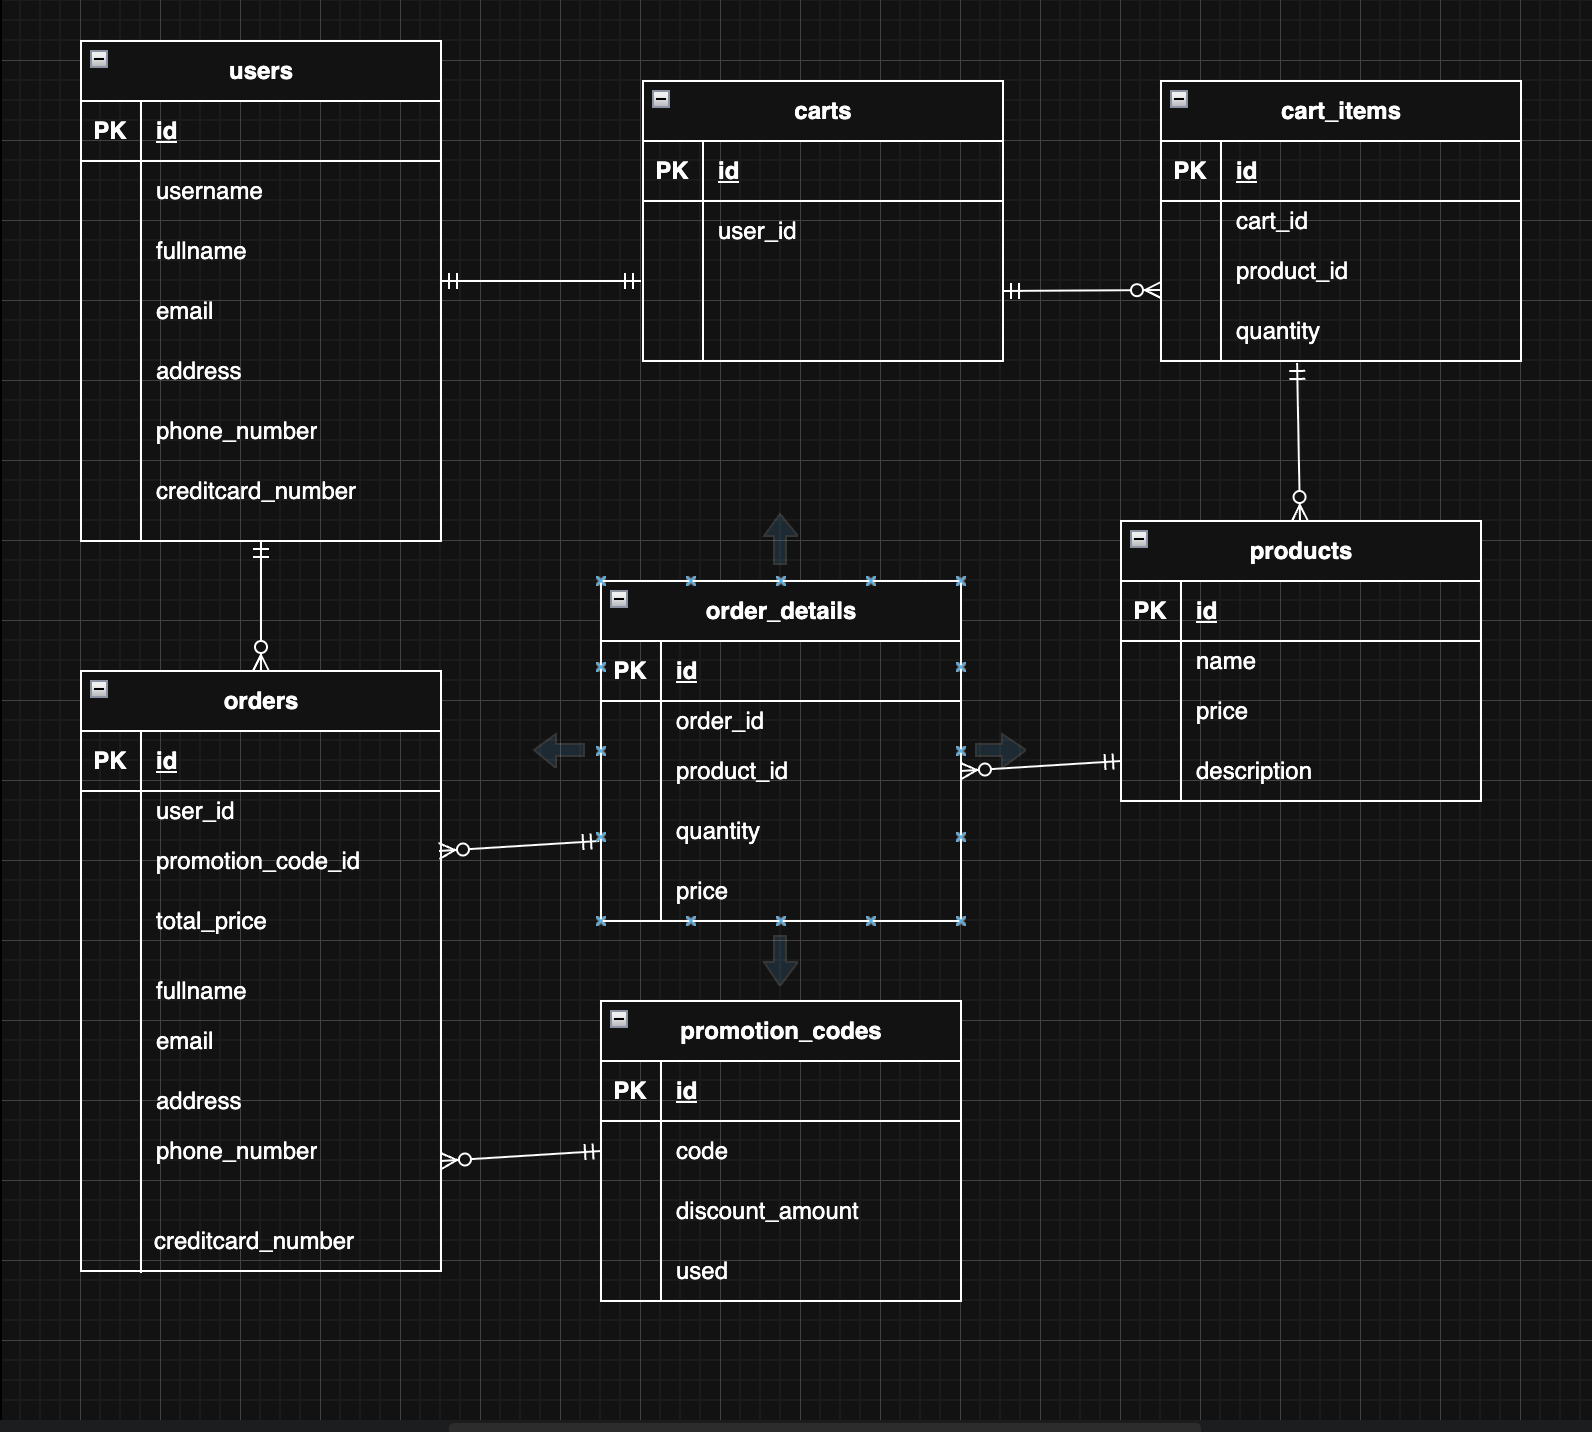
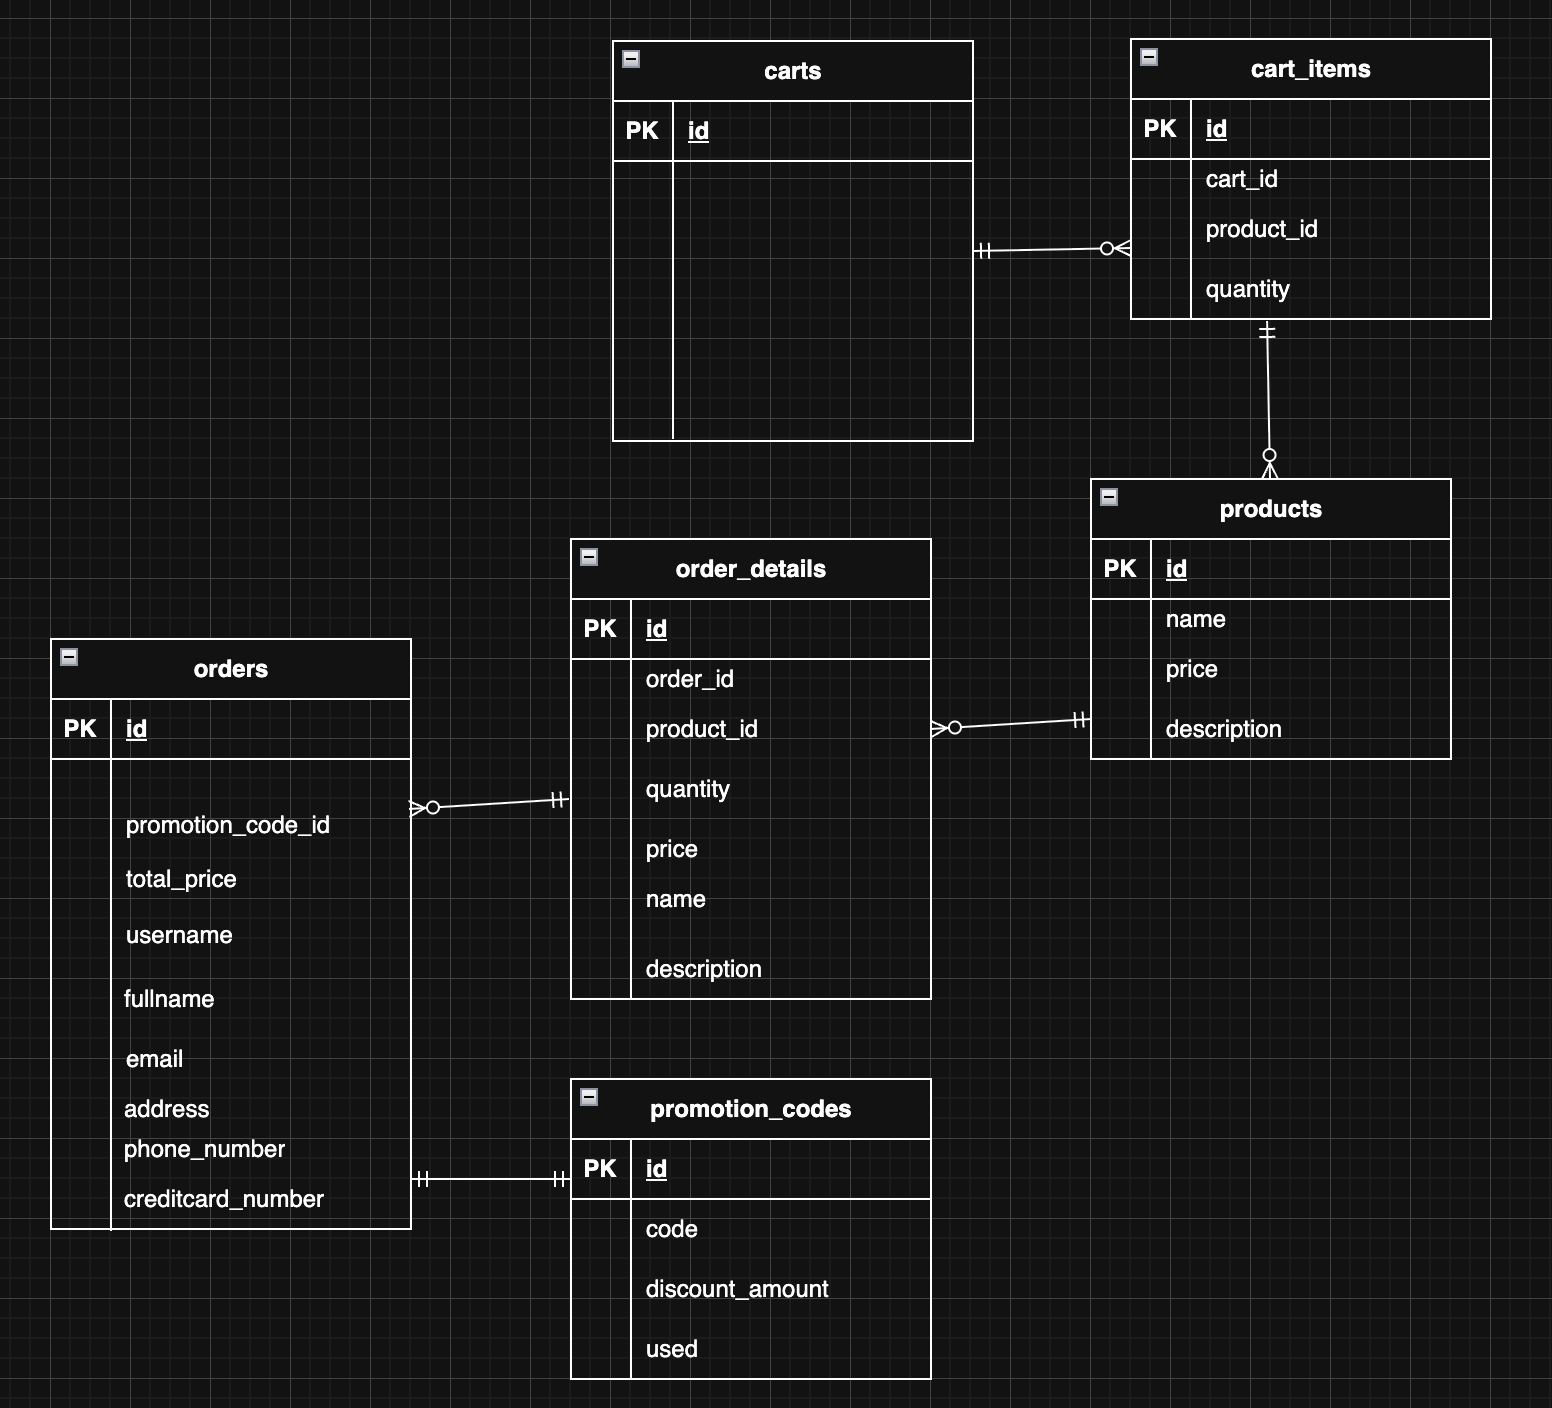
DB設計の修正とモデル再作成

diff --git a/db/schema.rb b/db/schema.rb
@@ -10,7 +10,7 @@
 #
 # It's strongly recommended that you check this file into your version control system.
 
-ActiveRecord::Schema[7.0].define(version: 2025_07_18_031944) do
+ActiveRecord::Schema[7.0].define(version: 2025_07_20_030455) do
   # These are extensions that must be enabled in order to support this database
   enable_extension "plpgsql"
 
@@ -25,10 +25,8 @@ ActiveRecord::Schema[7.0].define(version: 2025_07_18_031944) do
   end
 
   create_table "carts", force: :cascade do |t|
-    t.bigint "user_id", null: false
     t.datetime "created_at", null: false
     t.datetime "updated_at", null: false
-    t.index ["user_id"], name: "index_carts_on_user_id"
   end
 
   create_table "order_details", force: :cascade do |t|
@@ -36,6 +34,8 @@ ActiveRecord::Schema[7.0].define(version: 2025_07_18_031944) do
     t.bigint "product_id", null: false
     t.integer "quantity", null: false
     t.decimal "price", precision: 8, scale: 2, null: false
+    t.string "name", null: false
+    t.text "description"
     t.datetime "created_at", null: false
     t.datetime "updated_at", null: false
     t.index ["order_id"], name: "index_order_details_on_order_id"
@@ -43,18 +43,17 @@ ActiveRecord::Schema[7.0].define(version: 2025_07_18_031944) do
   end
 
   create_table "orders", force: :cascade do |t|
-    t.bigint "user_id", null: false
+    t.bigint "promotion_code_id"
     t.decimal "total_price", precision: 8, scale: 2, null: false
+    t.string "username"
     t.string "full_name", null: false
     t.string "email", null: false
     t.string "address", null: false
-    t.string "phone_number"
+    t.string "phone_number", null: false
     t.string "credit_card_number", null: false
     t.datetime "created_at", null: false
     t.datetime "updated_at", null: false
-    t.bigint "promotion_code_id", null: false
     t.index ["promotion_code_id"], name: "index_orders_on_promotion_code_id"
-    t.index ["user_id"], name: "index_orders_on_user_id"
   end
 
   create_table "products", force: :cascade do |t|
@@ -81,22 +80,9 @@ ActiveRecord::Schema[7.0].define(version: 2025_07_18_031944) do
     t.datetime "updated_at", null: false
   end
 
-  create_table "users", force: :cascade do |t|
-    t.string "username"
-    t.string "full_name", null: false
-    t.string "email", null: false
-    t.string "address", null: false
-    t.string "phone_number"
-    t.string "credit_card_number", null: false
-    t.datetime "created_at", null: false
-    t.datetime "updated_at", null: false
-  end
-
   add_foreign_key "cart_items", "carts"
   add_foreign_key "cart_items", "products"
-  add_foreign_key "carts", "users"
   add_foreign_key "order_details", "orders"
   add_foreign_key "order_details", "products"
   add_foreign_key "orders", "promotion_codes"
-  add_foreign_key "orders", "users"
 end

diff --git a/db/migrate/20250720030416_create_orders.rb b/db/migrate/20250720030416_create_orders.rb
@@ -1,13 +1,15 @@
+# frozen_string_literal: true
+
 class CreateOrders < ActiveRecord::Migration[7.0]
   def change
     create_table :orders do |t|
-      t.references :user, null: false, foreign_key: true
-      # t.references :promotion_code, foreign_key: true
+      t.references :promotion_code, foreign_key: true
       t.decimal :total_price, null: false, precision: 8, scale: 2
+      t.string :username
       t.string :full_name, null: false
       t.string :email, null: false
       t.string :address, null: false
-      t.string :phone_number
+      t.string :phone_number, null: false
       t.string :credit_card_number, null: false
 
       t.timestamps

diff --git a/db/migrate/20250720030455_create_order_details.rb b/db/migrate/20250720030455_create_order_details.rb
@@ -1,3 +1,5 @@
+# frozen_string_literal: true
+
 class CreateOrderDetails < ActiveRecord::Migration[7.0]
   def change
     create_table :order_details do |t|
@@ -5,6 +7,8 @@ class CreateOrderDetails < ActiveRecord::Migration[7.0]
       t.references :product, null: false, foreign_key: true
       t.integer :quantity, null: false
       t.decimal :price, null: false, precision: 8, scale: 2
+      t.string :name, null: false
+      t.text :description
 
       t.timestamps
     end

diff --git a/app/models/order.rb b/app/models/order.rb
@@ -1,7 +1,7 @@
-class Order < ApplicationRecord
-  belongs_to :user
-  belongs_to :promotion_code, optional: true
+# frozen_string_literal: true
 
+class Order < ApplicationRecord
+  belongs_to :promotion_code, optional: true
   has_many :order_details, dependent: :destroy
   has_many :products, through: :order_details
 end

diff --git a/app/models/product.rb b/app/models/product.rb
@@ -1,5 +1,7 @@
+# frozen_string_literal: true
+
 class Product < ApplicationRecord
-  has_many :cart_items
-  has_many :order_details
+  has_many :cart_items, dependent: :destroy
+  has_many :order_details, dependent: :restrict_with_error
   has_many :orders, through: :order_details
 end

diff --git a/app/models/cart.rb b/app/models/cart.rb
@@ -1,6 +1,6 @@
+# frozen_string_literal: true
+
 class Cart < ApplicationRecord
-  belongs_to :user
-  has_many :cart_items
-  
+  has_many :cart_items, dependent: :delete_all
   has_many :products, through: :cart_items
 end

diff --git a/app/models/promotion_code.rb b/app/models/promotion_code.rb
@@ -1,3 +1,5 @@
+# frozen_string_literal: true
+
 class PromotionCode < ApplicationRecord
-  has_one :order
+  has_one :order, dependent: :restrict_with_error
 end

diff --git a/db/migrate/20250720030156_create_carts.rb b/db/migrate/20250720030156_create_carts.rb
@@ -1,0 +1,7 @@
+# frozen_string_literal: true
+
+class CreateCarts < ActiveRecord::Migration[7.0]
+  def change
+    create_table :carts, &:timestamps
+  end
+end

diff --git a/db/migrate/20250720030235_create_promotion_codes.rb b/db/migrate/20250720030235_create_promotion_codes.rb
@@ -1,3 +1,5 @@
+# frozen_string_literal: true
+
 class CreatePromotionCodes < ActiveRecord::Migration[7.0]
   def change
     create_table :promotion_codes do |t|

diff --git a/db/migrate/20250720030328_create_cart_items.rb b/db/migrate/20250720030328_create_cart_items.rb
@@ -1,3 +1,5 @@
+# frozen_string_literal: true
+
 class CreateCartItems < ActiveRecord::Migration[7.0]
   def change
     create_table :cart_items do |t|

diff --git a/db/migrate/20250720025958_create_products.rb b/db/migrate/20250720025958_create_products.rb
@@ -1,3 +1,5 @@
+# frozen_string_literal: true
+
 class CreateProducts < ActiveRecord::Migration[7.0]
   def change
     create_table :products do |t|

diff --git a/app/models/order_detail.rb b/app/models/order_detail.rb
@@ -1,3 +1,5 @@
+# frozen_string_literal: true
+
 class OrderDetail < ApplicationRecord
   belongs_to :order
   belongs_to :product
